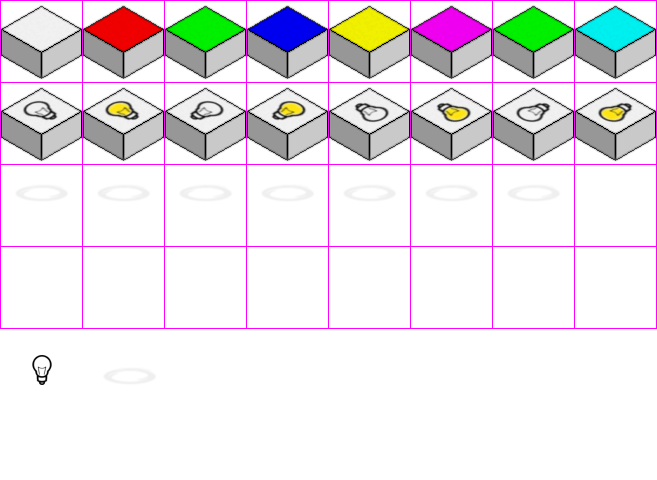
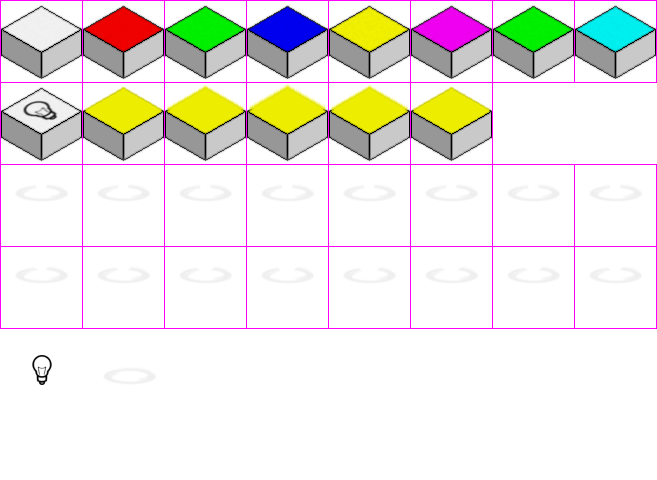
TP + Light

Changed region(s): [[0.1218, 0.1562, 1.0, 0.3438]]

diff --git a/src/Entities/Blocks/TeleporterBlock.java b/src/Entities/Blocks/TeleporterBlock.java
@@ -1,5 +1,7 @@
 package Entities.Blocks;
 
+import java.util.Stack;
+
 import org.jsfml.graphics.IntRect;
 import org.jsfml.graphics.Sprite;
 import org.jsfml.system.Vector2f;
@@ -8,26 +10,82 @@ import Entities.Block;
 import Entities.Character;
 import Game.Ressources;
 import Game.Ressources.TEXTURE;
-import Prog.Color;
 import Prog.Coordonnees;
 import UI.Graphic;
 
 public class TeleporterBlock extends Block
 {
+	private static Stack<org.jsfml.graphics.Color> colorTaken = initialiseStack();
+	private static Stack<org.jsfml.graphics.Color> initialiseStack()
+	{
+		Stack<org.jsfml.graphics.Color> l = new Stack<org.jsfml.graphics.Color>();
+		
+		l.push(org.jsfml.graphics.Color.GREEN);
+		l.push(org.jsfml.graphics.Color.BLUE);
+		l.push(org.jsfml.graphics.Color.RED);
+		
+		return l;
+	}
+	
+	private enum TYPE_TP
+	{
+		SOURCE,
+		DEST;
+	}
+	
 	private Sprite portal = new Sprite();
 	private TeleporterBlock destination;
-	private Color couleur;
-	private int anim = 0;
+	private TYPE_TP type;
 	
+	public TeleporterBlock(Coordonnees c)
+	{
+		sprite.setTexture(Ressources.TEXTURE.getTexture(TEXTURE.BLOCK));
+		sprite.setTextureRect(new IntRect(1, 1, 81, 81));
+		portal.setTexture(Ressources.TEXTURE.getTexture(TEXTURE.BLOCK));
+		portal.setTextureRect(new IntRect(1, 165, 81, 81));
+		
+		coord = c;
+		destination = null;
+		type = TYPE_TP.DEST;
+	}
+	
+	public TeleporterBlock(Coordonnees c, TeleporterBlock dest)
+	{
+		sprite.setTexture(Ressources.TEXTURE.getTexture(TEXTURE.BLOCK));
+		sprite.setTextureRect(new IntRect(1, 1, 81, 81));
+		portal.setTexture(Ressources.TEXTURE.getTexture(TEXTURE.BLOCK));
+		portal.setTextureRect(new IntRect(1, 165, 81, 81));
+		
+		coord = c;
+		destination = dest;
+		type = TYPE_TP.SOURCE;
+	}
+	
+	private int anim = 0;
+	private int one_frame = 8;
 	public void gerer() 
 	{
-		if (anim % 5 == 0)
-			portal.setTextureRect(new IntRect(1+anim/5*82, 165, 81, 81));
+		if (anim % one_frame == 0)
+		{
+			if (type == TYPE_TP.DEST)
+				portal.setTextureRect(new IntRect(1+anim/one_frame*82, 165, 81, 81));
+			else
+				portal.setTextureRect(new IntRect(1+anim/one_frame*82, 247, 81, 81));
+		}
 		
 		anim++;
 		
-		if (anim == 35)
+		if (anim == one_frame*8)
 			anim = 0;
+	}
+	
+	public void setColor(org.jsfml.graphics.Color c) {portal.setColor(c);}
+	
+	public void lier()
+	{
+		org.jsfml.graphics.Color c = colorTaken.pop();
+		portal.setColor(c);
+		destination.setColor(c);
 	}
 	
 	public void setPosSprite(Vector2f pos) 
@@ -43,52 +101,11 @@ public class TeleporterBlock extends Block
 		Graphic.SFML.draw(portal);
 	}
 	
-	public Color getColor(){return couleur;}
-	
-	public TeleporterBlock(Coordonnees c, Color col)
-	{
-		coord = c;
-		couleur = col;
-		this.destination = null;
-		
-	}
-	
-	public TeleporterBlock(Coordonnees c)
-	{
-		coord = c;
-		couleur = Color.DEFAUT;
-		this.destination = null;
-	}
-	
-	public TeleporterBlock(Color cl, Coordonnees c)
-	{
-		coord = c;
-		couleur = cl;
-		this.destination = null;
-	}
-	
-	public TeleporterBlock(Coordonnees c, TeleporterBlock dest)
-	{
-		sprite.setTexture(Ressources.TEXTURE.getTexture(TEXTURE.BLOCK));
-		sprite.setTextureRect(new IntRect(1, 1, 81, 81));
-		
-		portal.setTexture(Ressources.TEXTURE.getTexture(TEXTURE.BLOCK));
-		portal.setTextureRect(new IntRect(1, 165, 81, 81));
-		portal.setColor(org.jsfml.graphics.Color.RED);
-		
-		coord = c;
-		this.destination = dest;
-		couleur = Color.DEFAUT;
-	}
-	
 	public void perform(Character p) 
 	{
 		if (destination != null)
 			p.setCoord(destination.getCoord());
 	}
 	
-	public TeleporterBlock getDest()
-	{
-		return this.destination;
-	}
+	public TeleporterBlock getDest() {return destination;}
 }

diff --git a/src/Entities/Blocks/LightBlock.java b/src/Entities/Blocks/LightBlock.java
@@ -7,6 +7,7 @@ import Entities.Character;
 import Game.Ressources;
 import Game.Ressources.TEXTURE;
 import Prog.Coordonnees;
+import UI.Graphic;
 
 public class LightBlock extends Block
 {
@@ -22,6 +23,28 @@ public class LightBlock extends Block
 		coord = pos;
 	
 		initialiser();
+	}
+	
+	private int anim = 0;
+	private int one_frame = 8;
+	public void gerer() 
+	{
+		if (isOn)
+		{
+			if (anim % one_frame == 0)
+				sprite.setTextureRect(new IntRect(83+anim/one_frame*82, 83, 81, 81));
+
+			anim++;
+		
+			if (anim == one_frame*5)
+				anim = 0;
+		}
+	}
+	
+	public void afficher()
+	{
+		gerer();
+		Graphic.SFML.draw(sprite);
 	}
 	
 	public void initialiser() {sprite.setTextureRect(new IntRect(1, 83, 81, 81));}

diff --git a/src/Levels/Reader.java b/src/Levels/Reader.java
@@ -112,6 +112,7 @@ public class Reader
 									constructor2.newInstance(new Coordonnees(xx, yy, zz)));
 							lb.add(tp);
 							lb.add(((TeleporterBlock) tp).getDest());
+							((TeleporterBlock) tp).lier();
 						}
 						else
 						{
